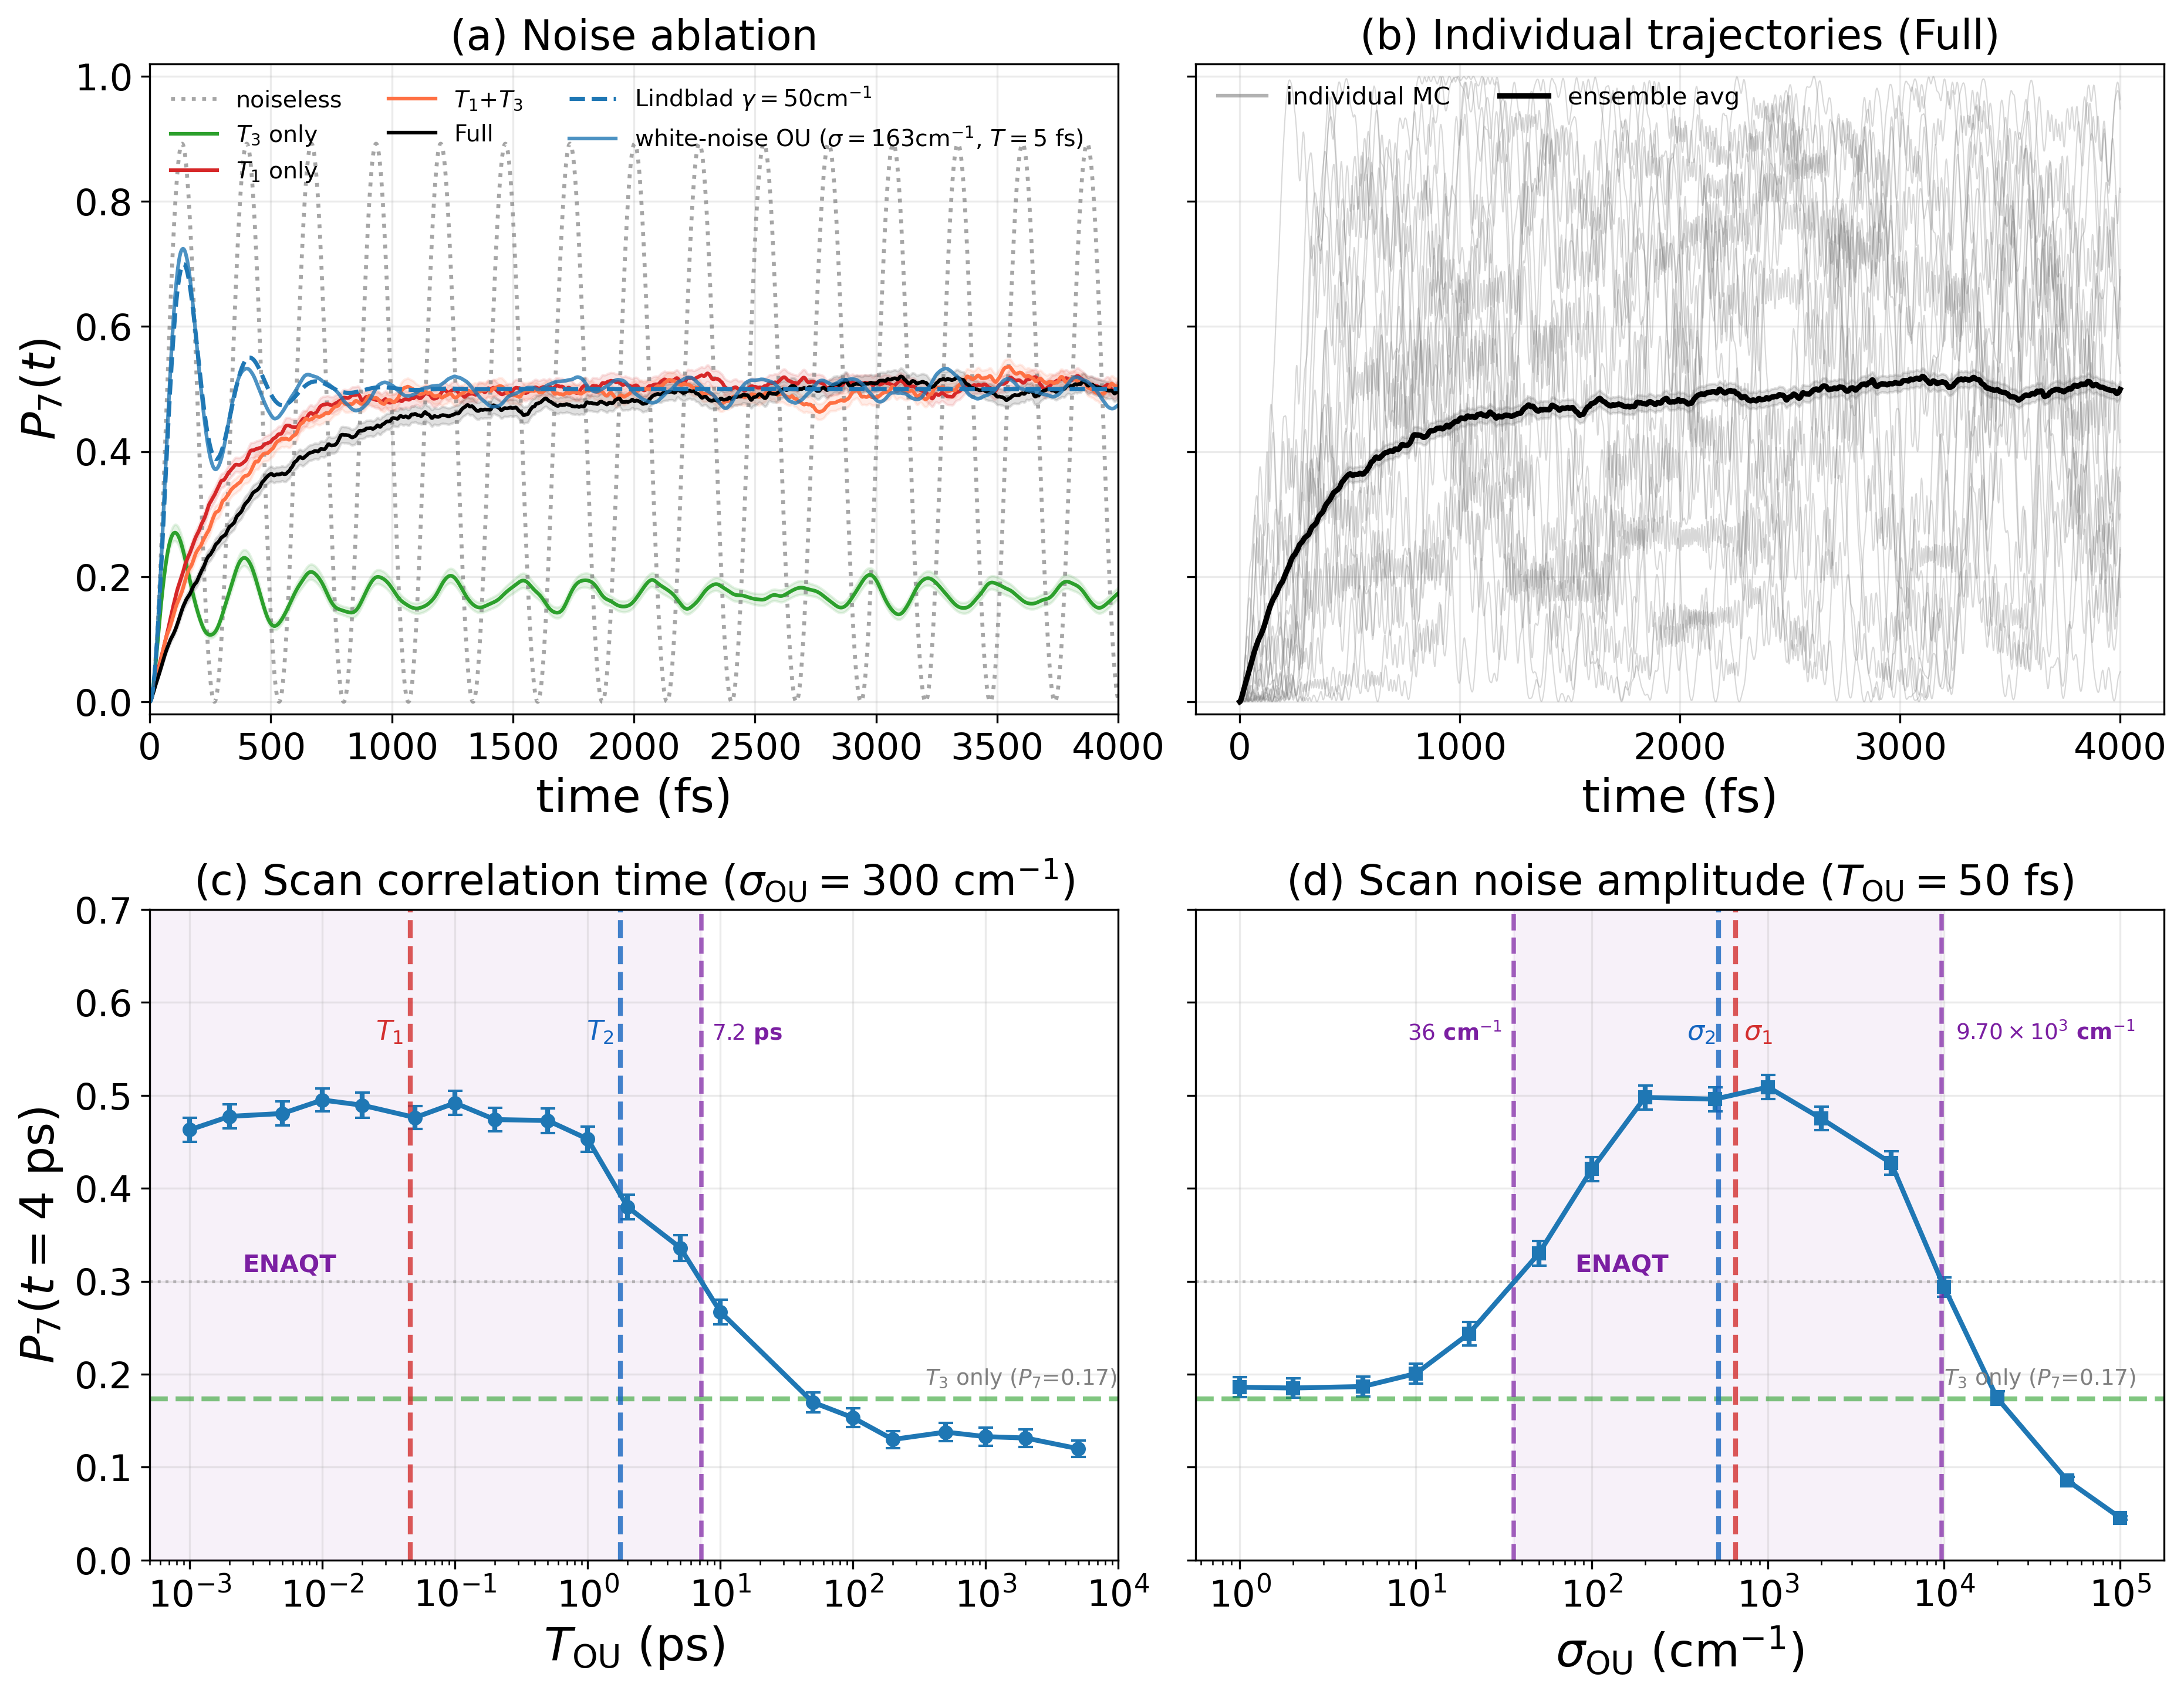
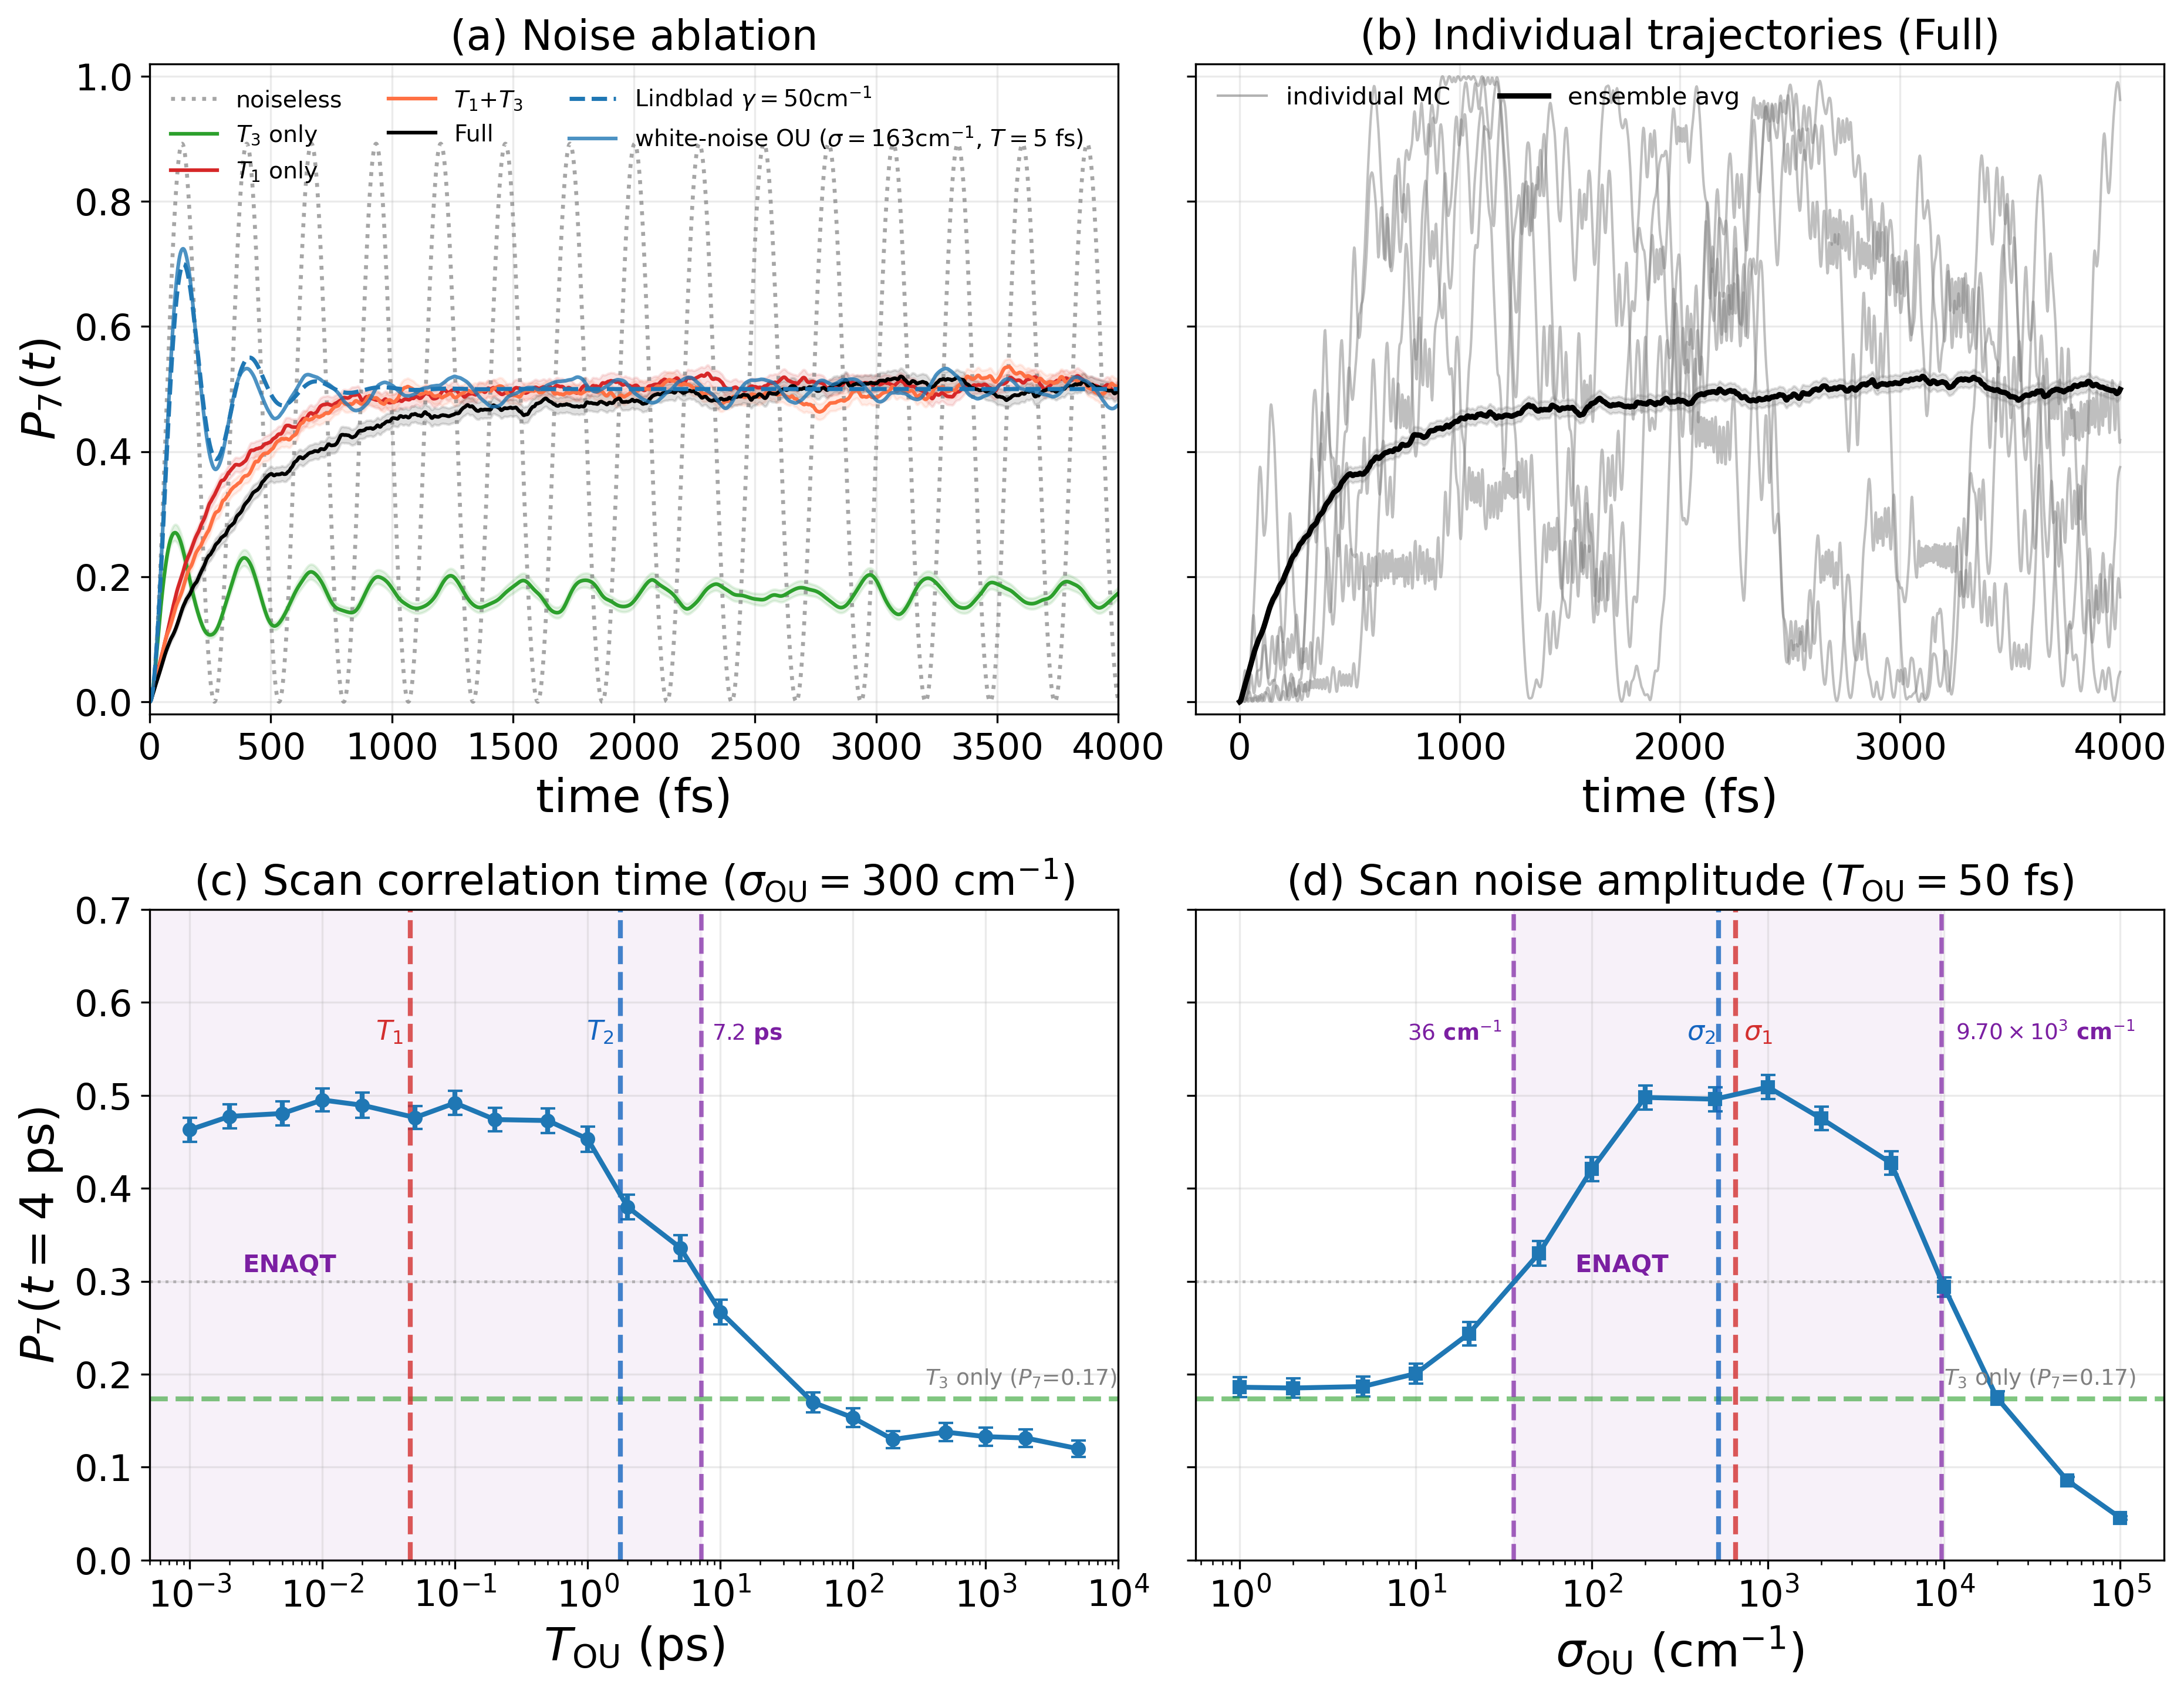
[feat] 8site scan plots

Changed region(s): [[0.5611, 0.0312, 0.9664, 0.4364]]

diff --git a/scripts/paper_figures/run_8site_scan.py b/scripts/paper_figures/run_8site_scan.py
@@ -1,0 +1,93 @@
+#!/usr/bin/env python
+"""Compute 8-site MC + Lindblad for all 8 starting Trp sites.
+
+Output: results/paper_figures/fig4_8site_scan.npz
+  t:   (N_STEPS,) time in ps
+  mc:  (8, 8, N_STEPS) coloured-noise MC populations [start, site, time]
+  lb:  (8, 8, N_STEPS) Lindblad populations
+"""
+from __future__ import annotations
+import sys, time
+from pathlib import Path
+import numpy as np
+from scipy.linalg import expm
+import qutip as qt
+
+sys.path.insert(0, str(Path(__file__).resolve().parent))
+from _common import CM_TO_RADPS, PAPER_DIR
+import run_exciton_mc as M
+
+N_SITE = 8
+T_MAX = 3.0
+DT = M.DT
+TLIST = np.arange(0, T_MAX + DT / 2, DT)
+N_STEPS = len(TLIST)
+N_REAL = 500
+GAMMA_CM = 50.0
+
+
+def run_mc_from_site(sig, tri, start_site, H0, n_real):
+    """Colored-noise MC from a given starting site. Returns (8, N_STEPS)."""
+    P = np.zeros((n_real, N_SITE, N_STEPS))
+    for i in range(n_real):
+        rng = np.random.default_rng(42 + i)
+        noises = np.zeros((N_SITE, N_STEPS))
+        for m in range(N_SITE):
+            s = sig[m]
+            a, tau = tri[m]
+            noises[m] = M.gen_noise(N_STEPS, DT, s, a, tau, rng)
+        psi = np.zeros(N_SITE, dtype=complex)
+        psi[start_site] = 1.0
+        P[i, :, 0] = np.abs(psi) ** 2
+        for j in range(1, N_STEPS):
+            H = H0.copy()
+            H[np.diag_indices(N_SITE)] += noises[:, j] * CM_TO_RADPS
+            psi = expm(-1j * H * DT) @ psi
+            P[i, :, j] = np.abs(psi) ** 2
+    return P.mean(0)
+
+
+def run_lindblad_from_site(start_site, H_qobj, gamma):
+    """Haken–Strobl Lindblad from a given starting site. Returns (8, N_STEPS)."""
+    c_ops = [np.sqrt(gamma) * qt.basis(N_SITE, m) * qt.basis(N_SITE, m).dag()
+             for m in range(N_SITE)]
+    e_ops = [qt.basis(N_SITE, n) * qt.basis(N_SITE, n).dag()
+             for n in range(N_SITE)]
+    psi0 = qt.basis(N_SITE, start_site)
+    r = qt.mesolve(H_qobj, psi0, TLIST, c_ops=c_ops, e_ops=e_ops)
+    return np.array(r.expect)
+
+
+def main():
+    sig, tri = M.load_site_params()
+    H0 = M.H_CRAD * CM_TO_RADPS
+    H_qobj = qt.Qobj(M.H_CRAD * CM_TO_RADPS)
+    gamma = GAMMA_CM * CM_TO_RADPS
+
+    print(f"8-site scan: {N_SITE} starting sites, {N_REAL} MC realisations, "
+          f"T={T_MAX} ps\n")
+
+    mc_data = {}
+    lb_data = {}
+    t0 = time.time()
+    for s in range(N_SITE):
+        print(f"Site Trp{s+1} (index {s})...", flush=True)
+        mc_data[s] = run_mc_from_site(sig, tri, s, H0, N_REAL)
+        lb_data[s] = run_lindblad_from_site(s, H_qobj, gamma)
+        p = mc_data[s]
+        print(f"  MC:   P_start={p[s,-1]:.3f}  P_leak={1-p[s,-1]:.3f}")
+        p_lb = lb_data[s]
+        print(f"  Lind: P_start={p_lb[s,-1]:.3f}  P_leak={1-p_lb[s,-1]:.3f}  "
+              f"({time.time()-t0:.0f}s)")
+
+    mc_arr = np.array([mc_data[s] for s in range(N_SITE)])
+    lb_arr = np.array([lb_data[s] for s in range(N_SITE)])
+    np.savez_compressed(
+        PAPER_DIR / 'fig4_8site_scan.npz',
+        t=TLIST, mc=mc_arr, lb=lb_arr,
+    )
+    print(f"\nsaved -> {PAPER_DIR / 'fig4_8site_scan.npz'}")
+
+
+if __name__ == '__main__':
+    main()

diff --git a/scripts/paper_figures/fig4_8site_scan.py b/scripts/paper_figures/fig4_8site_scan.py
@@ -1,0 +1,67 @@
+#!/usr/bin/env python
+"""4×2 figure: MC vs Lindblad from each starting Trp on the 8-site network.
+
+Loads precomputed data from run_8site_scan.py.
+"""
+from __future__ import annotations
+import sys
+from pathlib import Path
+import numpy as np
+import matplotlib.pyplot as plt
+from matplotlib.lines import Line2D
+
+sys.path.insert(0, str(Path(__file__).resolve().parent))
+from _common import setup, PAPER_DIR
+
+N_SITE = 8
+COLORS = ['#1f77b4', '#ff7f0e', '#2ca02c', '#d62728',
+          '#9467bd', '#8c564b', '#e377c2', '#7f7f7f']
+LABELS = [f'Trp{i+1}' for i in range(N_SITE)]
+
+
+def main():
+    setup()
+
+    d = np.load(PAPER_DIR / 'fig4_8site_scan.npz')
+    t_fs = d['t'] * 1e3
+    mc = d['mc']   # (8, 8, N_STEPS)
+    lb = d['lb']
+
+    fig, axes = plt.subplots(4, 2, figsize=(10, 10), sharex=True, sharey=True)
+    plt.subplots_adjust(left=0.08, right=0.96, top=0.94, bottom=0.06,
+                        hspace=0.18, wspace=0.10)
+
+    for s in range(N_SITE):
+        ax = axes[s // 2, s % 2]
+        for n in range(N_SITE):
+            ax.plot(t_fs, mc[s, n], '-', color=COLORS[n], lw=1.8,
+                    alpha=0.9 if n == s else 0.55)
+            ax.plot(t_fs, lb[s, n], '--', color=COLORS[n], lw=1.6,
+                    alpha=0.8 if n == s else 0.45)
+        ax.set_title(f'Initial: Trp{s+1}', fontsize=12)
+        if s // 2 == 3:
+            ax.set_xlabel('time (fs)')
+        if s % 2 == 0:
+            ax.set_ylabel('population')
+        ax.set_xlim(0, t_fs[-1])
+        ax.set_ylim(-0.02, 1.0)
+
+    legend_lines = ([Line2D([0], [0], color=COLORS[n], lw=2.0,
+                            label=LABELS[n]) for n in range(N_SITE)]
+                    + [Line2D([0], [0], color='gray', lw=2.0, ls='-',
+                              label='MC (colored noise)'),
+                       Line2D([0], [0], color='gray', lw=2.0, ls='--',
+                              label='Lindblad ($\\gamma=50$)')])
+    axes[0, 0].legend(handles=legend_lines, ncol=3, fontsize=7.5,
+                      loc='center left')
+
+    p_png = PAPER_DIR / 'fig4_8site_scan.png'
+    p_pdf = PAPER_DIR / 'fig4_8site_scan.pdf'
+    fig.savefig(p_png, dpi=300)
+    fig.savefig(p_pdf)
+    plt.close(fig)
+    print(f"saved {p_png}")
+
+
+if __name__ == '__main__':
+    main()

diff --git a/scripts/paper_figures/fig3_exciton.py b/scripts/paper_figures/fig3_exciton.py
@@ -93,8 +93,9 @@ def main():
     ax = axes[0, 1]
     d = np.load(PAPER_DIR / 'mc_realizations.npz')
     P7r = d['P7']
-    ax.plot(t_fs, P7r.T, color='gray', alpha=0.3, lw=0.5)
-    ax.plot([], [], color='gray', alpha=0.6, lw=1.5, label='individual MC')
+    print(P7r.shape)
+    ax.plot(t_fs, P7r[:5].T, color='gray', alpha=0.5, lw=1)
+    ax.plot([], [], color='gray', alpha=0.6, lw=1, label='individual MC')
     ax.plot(t_fs, mc['full_P7'], color='black', lw=2.2, label='ensemble avg')
     ax.fill_between(t_fs, mc['full_P7'] - mc['full_P7_sem'],
                      mc['full_P7'] + mc['full_P7_sem'], color='black', alpha=0.12)